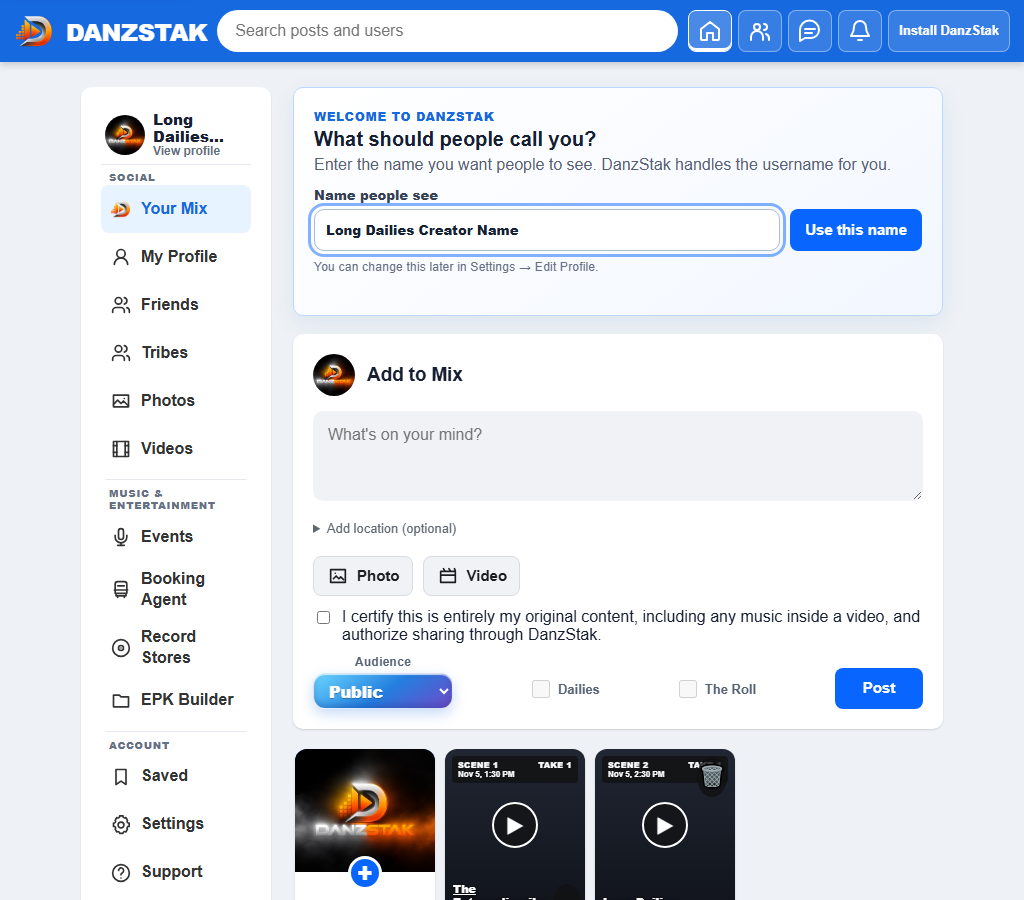
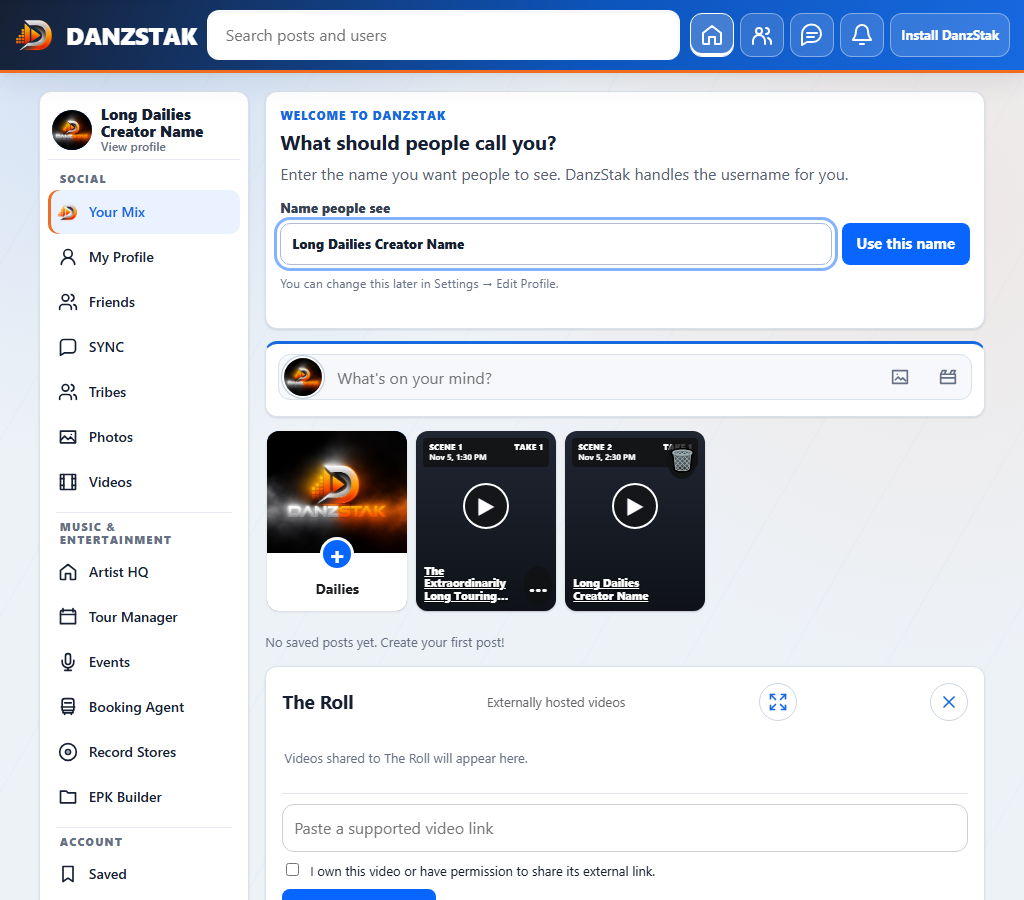
Keep composer media actions usable on desktop

diff --git a/assets/danzstak-original-feed.css b/assets/danzstak-original-feed.css
@@ -144,8 +144,49 @@ body.danzstak-original #newsFeedView .post-composer :is(button,.primary) {
     cursor:text;
     resize:none;
   }
-  body.danzstak-original #newsFeedView .post-composer:not(.is-expanded) :is(.post-location-picker,.composer-media-tools,.composer-media-preview,.original-content-certification,.certification-error,.composer-actions) {
+  body.danzstak-original #newsFeedView .post-composer:not(.is-expanded) :is(.post-location-picker,.composer-media-preview,.original-content-certification,.certification-error,.composer-actions) {
     display:none!important;
+  }
+  body.danzstak-original #newsFeedView .post-composer:not(.is-expanded) #postText {
+    padding-right:112px;
+  }
+  body.danzstak-original #newsFeedView .post-composer:not(.is-expanded) .composer-media-tools {
+    position:absolute;
+    z-index:2;
+    top:11px;
+    right:14px;
+    display:flex!important;
+    gap:4px!important;
+    margin:0!important;
+  }
+  body.danzstak-original #newsFeedView .post-composer:not(.is-expanded) .composer-media-button {
+    display:grid!important;
+    grid-template-columns:1fr;
+    width:44px;
+    min-width:44px;
+    min-height:44px;
+    padding:0;
+    border:0;
+    border-radius:10px;
+    background:transparent;
+    box-shadow:none;
+    color:var(--ds-muted);
+  }
+  body.danzstak-original #newsFeedView .post-composer:not(.is-expanded) .composer-media-button:hover,
+  body.danzstak-original #newsFeedView .post-composer:not(.is-expanded) .composer-media-button:focus-visible {
+    background:var(--ds-brand-soft);
+    color:var(--ds-brand);
+  }
+  body.danzstak-original #newsFeedView .post-composer:not(.is-expanded) .composer-media-button .sr-only {
+    position:absolute;
+    width:1px;
+    height:1px;
+    padding:0;
+    margin:-1px;
+    overflow:hidden;
+    clip:rect(0,0,0,0);
+    white-space:nowrap;
+    border:0;
   }
 }
 body.danzstak-original #storiesRail {

diff --git a/feed.html b/feed.html
@@ -354,7 +354,7 @@ video.post-media { height:auto; max-height:none; object-fit:contain; object-posi
 <link rel="stylesheet" href="assets/incoming-calls.css?v=233">
 <link rel="stylesheet" href="assets/responsive-media.css?v=4">
 <link rel="stylesheet" href="assets/mobile-design-system.css?v=13">
-<link rel="stylesheet" href="assets/danzstak-original-feed.css?v=7">
+<link rel="stylesheet" href="assets/danzstak-original-feed.css?v=8">
 <link rel="stylesheet" href="assets/artist-hq.css?v=1">
 <script src="assets/languages.js?v=231" defer></script>
 <script src="assets/brand-language-aliases.js?v=8" defer></script>

diff --git a/docs/DANZSTAK-DEVELOPMENT-REPORT.md b/docs/DANZSTAK-DEVELOPMENT-REPORT.md
@@ -1,5 +1,16 @@
 # DANZSTAK development report
 
+## Compact desktop composer media actions — 2026-11-07
+
+Status: **IN REVIEW — NOT MERGED OR DEPLOYED**.
+
+- The fresh `main` browser audit found that the collapsed post composer rendered its Photo and Video controls at `0 x 0` above 700px. They remained named in the accessibility tree but were physically unusable on tablet and desktop.
+- The collapsed composer now keeps both controls as 44px icon buttons on the same line as the prompt, without increasing the card height. Its text reserves room for the actions, the icons remain inside the composer, visible duplicate labels are suppressed while `aria-label` and title text remain, and hover/focus states use the shared DanzStak tokens.
+- Browser evidence: `browser-checks/dailies-feed-ux.cjs` passes at 320, 360, 390, 430 and 1024px. It now verifies both controls are usable, remain inside the composer and keep their visual text hidden. The inspected 1024px capture is `docs/screenshots/issue-49/feed-after-1024.png`.
+- Functional and integration evidence: the complete `test-regressions.ps1` gate passes after installing the repository's locked Auth API dependencies. Focused Dailies, Original Feed, post-composer, mobile-design, touch-target, PWA-refresh and static-link checks also pass.
+- Prepared PWA asset: Original Feed CSS v8. The service-worker version remains v714 because CSS requests are network-first and the versioned stylesheet URL is new; no production cache or deployment claim is made.
+- Honest boundary: this corrects the tablet/desktop collapsed composer only. Mobile behavior was preserved and verified. Owner review, merge, preview acceptance and production deployment have not occurred.
+
 ## Invite a friend — 2026-11-07
 
 Status: **DEPLOYED AND VERIFIED ON THE LIVE PWA**.
